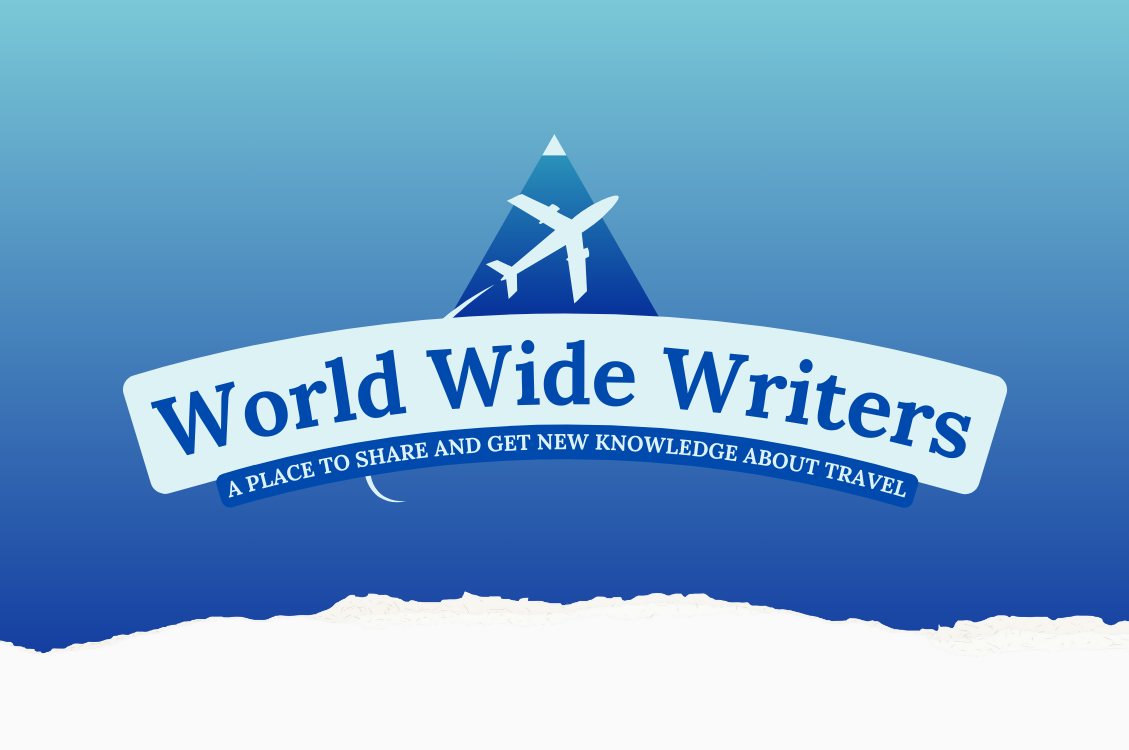
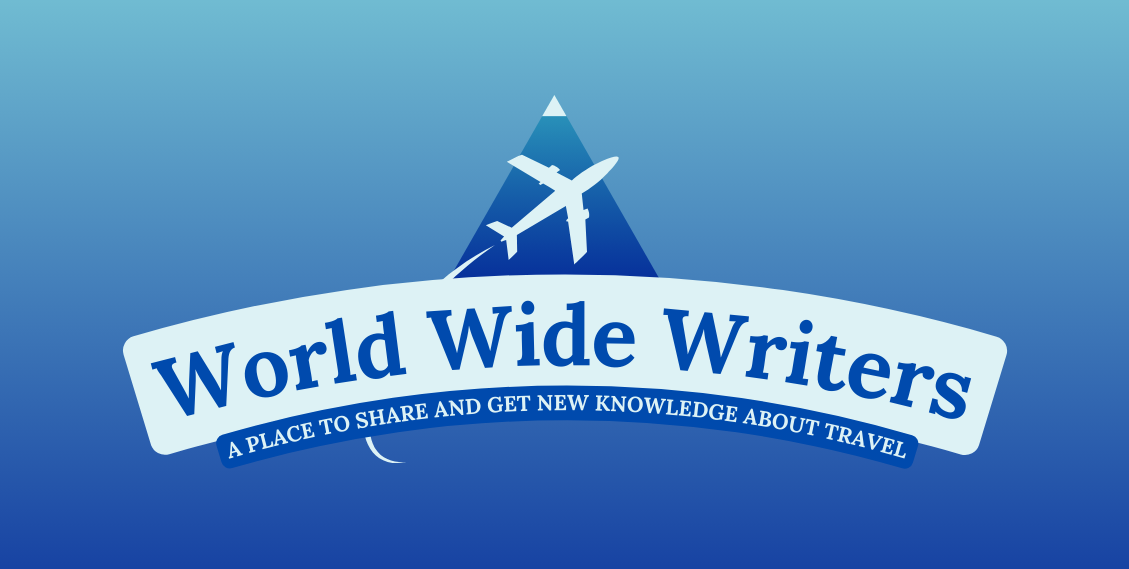
Change body and card colors

diff --git a/blog/templates/blog/index.html b/blog/templates/blog/index.html
@@ -3,49 +3,50 @@
 {% block content %}
 
 <!-- index.html content starts here -->
-<div>
-    <img src="{% static 'images/hero-image.png' %}" class="img-fluid" id="hero-image" alt="image">
-</div>
-
-<section>
-    <div class="container card mb-5">
-        <div class="row justify-content-center">
-        {% if user.is_authenticated %}
-            <h1 class="text-center mt-5 mb-4">Welcome back to WorldWideWriters!</h1>
-            <p class="text-center"> Here you can share your adventures and
-            inspire others to explore the world. You can create posts and save your favorite travel posts from fellow
-            adventurers. Share travel itineraries, exchange recommendations, and start planning your next adventure!</p>
-            <div class="col-3 mb-4">
-                <a class="btn btn-lg btn-primary" aria-current="page"
-                    href="{% url 'post_list' %}">Go to posts!</a>
-            </div>
-            <div class="col-3 mb-4">
-            <a class="btn btn-lg btn-primary {% if request.path == user_post_url %}active{% endif %}" aria-current="page"
-                href="{% url 'user_post' %}">Create a post!</a>
-            </div>
-        {% else %}
-            <h1 class="text-center mt-5 mb-4">Welcome to WorldWideWriters!</h1>
-            <p class="text-center">Embrace your wanderlust and join World Wide Writers, a website where travel enthusiasts share
-                their adventures and
-                inspire others to explore the world. Here, you can create posts and save your favorite travel posts from fellow
-                adventurers. Share travel itineraries, exchange recommendations, and start planning your next adventure!</p>
-            <div class="col-3 mb-4 text-center">
-                <a class="btn btn-lg btn-primary {% if request.path == signup_url %}active{% endif %}" aria-current="page"
-                    href="{% url 'account_signup' %}">Sign Up!</a>
-            </div>
-        </div>
-            <br>
-        <div class="row justify-content-start">
-            <p class="text-small">Already have an account?</p>
-                <div class="col-3 mb-4 justify-content-start">
-                    <a class="btn btn-sm btn-primary {% if request.path == login_url %}active{% endif %}" aria-current="page"
-                    href="{% url 'account_login' %}">Sign In Here!</a>
-                </div>
-        </div>
-        {% endif %}
+<header>
+    <div>
+        <img src="{% static 'images/hero-image.png' %}" class="img-fluid" id="hero-image" alt="image">
     </div>
-</section>
 
+    <section>
+        <div class="container card">
+            <div class="row justify-content-center">
+            {% if user.is_authenticated %}
+                <h1 class="text-center mt-5 mb-4">Welcome back to WorldWideWriters!</h1>
+                <p class="text-center"> Here you can share your adventures and
+                inspire others to explore the world. You can create posts and save your favorite travel posts from fellow
+                adventurers. Share travel itineraries, exchange recommendations, and start planning your next adventure!</p>
+                <div class="col-3 mb-4">
+                    <a class="btn btn-lg btn-primary" aria-current="page"
+                        href="{% url 'post_list' %}">Go to posts!</a>
+                </div>
+                <div class="col-3 mb-4">
+                <a class="btn btn-lg btn-primary {% if request.path == user_post_url %}active{% endif %}" aria-current="page"
+                    href="{% url 'user_post' %}">Create a post!</a>
+                </div>
+            {% else %}
+                <h1 class="text-center mt-5 mb-4">Welcome to WorldWideWriters!</h1>
+                <p class="text-center">Embrace your wanderlust and join World Wide Writers, a website where travel enthusiasts share
+                    their adventures and
+                    inspire others to explore the world. Here, you can create posts and save your favorite travel posts from fellow
+                    adventurers. Share travel itineraries, exchange recommendations, and start planning your next adventure!</p>
+                <div class="col-3 mb-4 text-center">
+                    <a class="btn btn-lg btn-primary {% if request.path == signup_url %}active{% endif %}" aria-current="page"
+                        href="{% url 'account_signup' %}">Sign Up!</a>
+                </div>
+            </div>
+                <br>
+            <div class="row justify-content-start">
+                <p class="text-small">Already have an account?</p>
+                    <div class="col-3 mb-4 justify-content-start">
+                        <a class="btn btn-sm btn-primary {% if request.path == login_url %}active{% endif %}" aria-current="page"
+                        href="{% url 'account_login' %}">Sign In Here!</a>
+                    </div>
+            </div>
+            {% endif %}
+        </div>
+    </section>
+</header>
 <!-- index.html content ends here -->
 
 {% endblock %}

diff --git a/blog/templates/blog/user_post.html b/blog/templates/blog/user_post.html
@@ -8,9 +8,13 @@
     <div class="container-md card mt-5 mb-5 p-3">
         <div class="row justify-content-md-center">
             {% if user.is_authenticated %}
-            <h3>Leave a post:</h3>
-            <p>Posting as: {{ user.username }}</p>
-            <form
+            <div class="col-6">
+                <h3>Leave a post:</h3>
+            </div>
+            <div class="col-6">
+                <p class="text-end">Posting as: {{ user.username }}</p>
+            </div>
+            <form class="text-white"
             id="postForm"
             method="post"
             enctype="multipart/form-data"

diff --git a/blog/templates/blog/user_profile.html b/blog/templates/blog/user_profile.html
@@ -3,7 +3,7 @@
 {% block content %}
 <section>
     <h1 class="text-center mt-5">My Posts</h1>
-    <div class="container card mt-5">
+    <div class="container card mt-3">
         <div class="row">
             {% for mydata in mymembers %}
                 {% if user == mydata.author %}
@@ -30,7 +30,7 @@
 </section>
 <section>
     <h1 class="text-center mt-5">My Saved Posts</h1>
-    <div class="container card mt-5 mb-5">
+    <div class="container card mt-3 mb-5">
         <div class="row">
             {% for mydata in mymembers %}
                 {% if request.user in mydata.saved_post.all %}

diff --git a/static/css/style.css b/static/css/style.css
@@ -1,6 +1,6 @@
 /* Body */
 body {
-    background-color: #fafafa;
+    background-color: #1844A3;
 }
 
 /* Hero page for the homepage */ 
@@ -27,6 +27,7 @@ body {
 
 p {
     font-size: 1.2rem;
+    color: white;
 }
 
 .text-small{
@@ -36,8 +37,13 @@ p {
 
 /* Background color for the card container of all my elements */
 .card {
-background-color: #fbfadf;
+    background-color: #0A3A9E;
 }
+
+h1, h2, h3 {
+    color: #ffffff;
+}
+
 
 /* Button for saving posts */ 
 .btn-saved {

diff --git a/blog/views.py b/blog/views.py
@@ -59,7 +59,7 @@ def user_post(request):
             messages.add_message(
                 request, messages.SUCCESS,
                 'Post submitted and awaiting approval')
-        return redirect("home")
+        return redirect("user_profile")
 
     return render(
         request,
